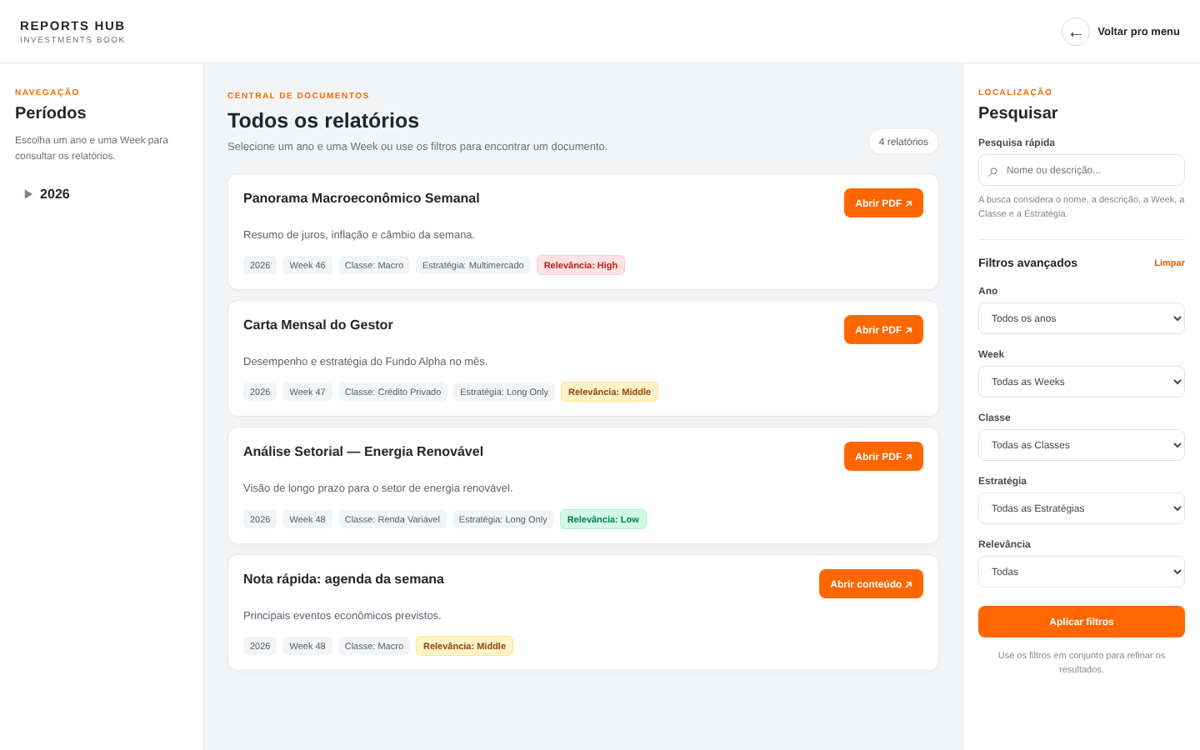
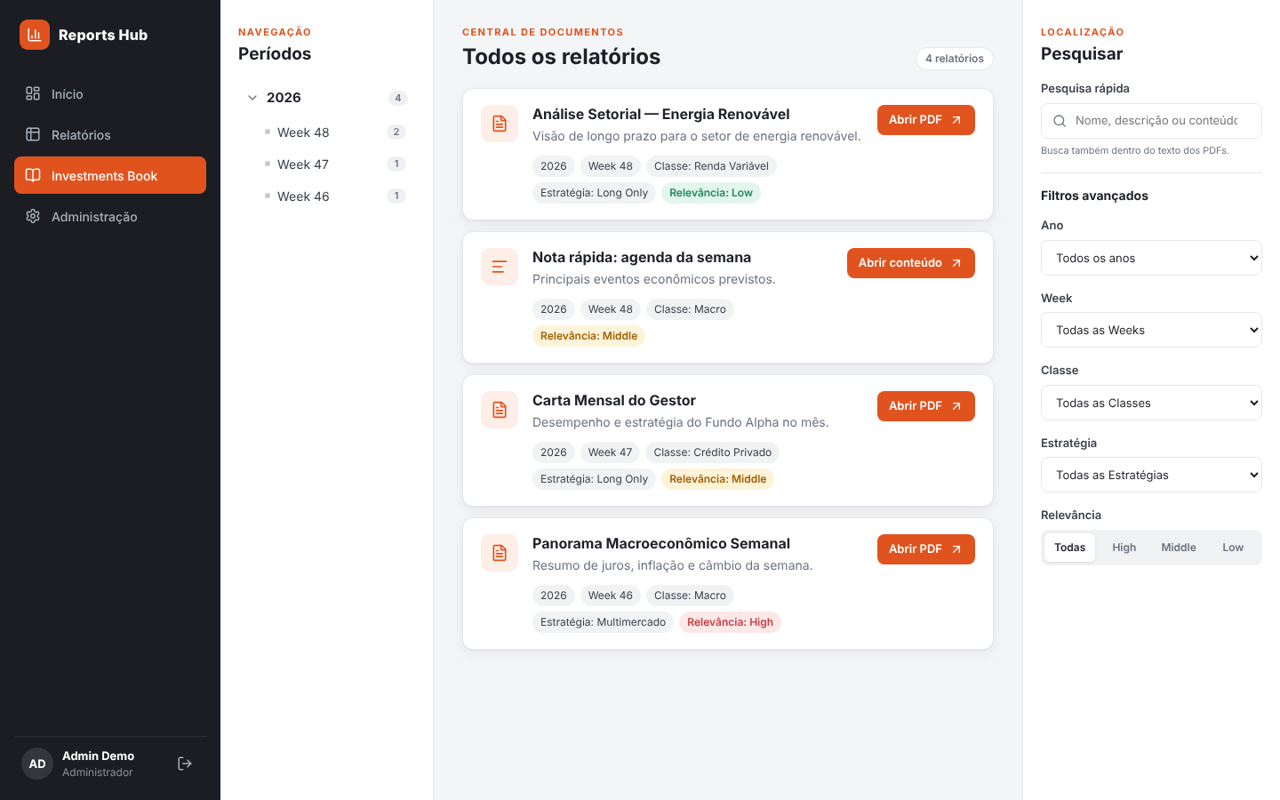
docs: README da versão React com screenshots

diff --git a/README.md b/README.md
@@ -1,10 +1,11 @@
 # Reports Hub
 
-Portal web de relatórios com **controle de acesso por usuário** e uma **biblioteca de documentos pesquisável** (Investments Book), feito em Node.js + Express e JavaScript puro no front-end.
+Portal de relatórios com **controle de acesso por usuário** e uma **biblioteca de documentos pesquisável** (Investments Book).
+SPA em **React** (Vite + React Router) com API em **Node.js / Express**.
 
-> Projeto desenvolvido originalmente para uso interno em uma empresa do mercado financeiro. Esta é uma versão pública: dados, e-mails, credenciais, links de planilhas e identidade visual foram removidos e substituídos por dados fictícios, para que qualquer pessoa consiga rodar e testar localmente.
+> Projeto desenvolvido originalmente para uso interno em uma empresa do mercado financeiro. Esta é a versão pública: dados, e-mails, credenciais, links de planilhas e identidade visual foram removidos e substituídos por dados fictícios. Assim, qualquer pessoa consegue rodar e testar localmente.
 
-![Login](docs/screenshots/login.png)
+![Início](docs/screenshots/inicio.png)
 
 ---
 
@@ -12,126 +13,135 @@ Portal web de relatórios com **controle de acesso por usuário** e uma **biblio
 
 A empresa precisava que diferentes pessoas (gestores, analistas, clientes) acessassem **planilhas atualizadas em tempo real** em um único portal, mas **cada uma só podia ver os relatórios liberados para ela**. Depois surgiu uma segunda demanda: uma central para **importar, classificar e pesquisar relatórios em PDF**, alimentada por administradores.
 
-## A solução
+## Funcionalidades
 
-### 1. Portal de relatórios com permissões
-- Login com e-mail e senha (a versão original usava SSO com Microsoft 365, veja [Login com Microsoft](#login-com-microsoft-365-opcional)).
-- Cada usuário tem uma lista de relatórios liberados. O servidor só devolve e só abre o que está nessa lista. O front-end nunca recebe nada que o usuário não pode ver.
-- Visualizador de planilha com **zoom, arrastar (pan)** e **atualização automática a cada 15 s**: altere o CSV no disco e a tela se atualiza sozinha.
-- Suporte a planilhas incorporadas (Excel Online, Google Sheets publicado etc.) via `embed`.
+**Relatórios com permissão por usuário**
+- Login com JWT. O servidor filtra a lista e bloqueia (HTTP 403) qualquer relatório fora das permissões do usuário, mesmo que a pessoa digite a URL direto.
+- Visualizador de planilha com zoom (botões ou teclas `+` `-` `0`), arrastar com o mouse e **atualização automática a cada 15 s**.
+- Suporte a planilhas incorporadas (Excel Online, Google Sheets publicado etc.).
 
-### 2. Investments Book (biblioteca de PDFs)
-- Navegação por **ano → Week**.
-- **Pesquisa rápida** que busca no nome, na descrição, nos filtros e **no texto extraído do próprio PDF**.
-- **Filtros avançados**: ano, Week, Classe, Estratégia e Relevância (High / Middle / Low).
-- Visualização do PDF direto na página.
-- **Painel administrativo** (apenas admins): upload de PDF ou conteúdo de texto + link, edição e exclusão de relatórios, e criação de filtros (Weeks, Classes, Estratégias).
+**Investments Book**
+- Navegação por ano → Week, com contagem de documentos.
+- Busca instantânea no nome, na descrição, nos filtros e **no texto extraído de dentro dos PDFs**.
+- Filtros combináveis: ano, Week, Classe, Estratégia e Relevância.
+- Visualização do PDF na própria página, com URL compartilhável (`/book?doc=ID`).
 
-| Menu principal | Relatórios de um usuário com acesso limitado |
-|---|---|
-| ![Menu](docs/screenshots/menu-principal.png) | ![Cliente](docs/screenshots/relatorios-cliente.png) |
+**Painel administrativo** (só para `admin`)
+- Upload com arrastar e soltar, validação de tipo e tamanho.
+- Tabela de gerenciamento com edição em modal e exclusão com confirmação.
+- CRUD dos filtros (Weeks, Classes, Estratégias).
 
-| Visualizador de planilha | Investments Book |
+| Planilha | Investments Book |
 |---|---|
 | ![Planilha](docs/screenshots/planilha.png) | ![Book](docs/screenshots/investments-book.png) |
 
-![Admin](docs/screenshots/admin-book.png)
+| Gerenciar relatórios | Edição |
+|---|---|
+| ![Admin](docs/screenshots/admin-relatorios.png) | ![Editar](docs/screenshots/admin-editar.png) |
+
+| Filtros | Acesso negado (usuário sem permissão) |
+|---|---|
+| ![Filtros](docs/screenshots/admin-filtros.png) | ![Negado](docs/screenshots/acesso-negado.png) |
 
 ---
 
 ## Tecnologias
 
-- **Back-end:** Node.js, Express 5, JWT (`jsonwebtoken`), `bcryptjs`, `multer` (upload), `pdfjs-dist` (extração de texto dos PDFs)
-- **Front-end:** HTML, CSS e JavaScript puro (sem framework)
-- **Persistência:** arquivos JSON (sem banco de dados, para facilitar rodar localmente)
+| Camada | Stack |
+|---|---|
+| Front-end | React 19, Vite, React Router 7, lucide-react, CSS puro com design tokens |
+| Back-end | Node.js, Express 5, JWT, bcryptjs, multer, pdfjs-dist |
+| Persistência | Arquivos JSON (sem banco, para rodar com zero configuração) |
+| Monorepo | npm workspaces + concurrently |
+
+### Decisões de arquitetura
+
+- **A autorização fica no servidor.** O front só esconde menus por conveniência. Quem decide o que cada usuário pode ver e alterar são os middlewares `requireAuth` e `requireAdmin` da API.
+- **Estado de autenticação centralizado** em um `AuthContext`, com rotas protegidas (`<ProtectedRoute adminOnly />`) e logout automático quando o token expira (evento `auth:expired` disparado pelo cliente HTTP).
+- **Feedback global** (toasts, confirmação, prompt) via `FeedbackContext` com API baseada em Promise: `await confirm({...})`. Substitui `alert`/`confirm`/`prompt` nativos.
+- **Hooks reutilizáveis**: `useBookData` (carregamento e recarga dos dados do Book) e `useZoomPan` (zoom, arrastar e atalhos do visualizador).
+- **Planilhas "em tempo real"**: o servidor lê o CSV a cada requisição e devolve a data de modificação. O cliente faz polling e só re-renderiza quando o arquivo mudou.
 
 ---
 
 ## Como rodar
 
-Pré-requisito: **Node.js 18 ou superior**.
+Pré-requisito: **Node.js 20.19+** (ou 22.12+).
 
 ```bash
 git clone https://github.com/SEU-USUARIO/reports-hub.git
 cd reports-hub
 npm install
-cp .env.example .env      # no Windows: copy .env.example .env
+cp server/.env.example server/.env      # Windows: copy server\.env.example server\.env
+```
+
+**Modo desenvolvimento** (hot reload no front e no back):
+
+```bash
+npm run dev
+```
+Abra **http://localhost:5173**. O Vite redireciona `/api` e `/auth` para a API na porta 4000.
+
+**Modo produção** (build do React servido pelo Express):
+
+```bash
 npm start
 ```
+Abra **http://localhost:4000**.
 
-Na primeira execução o servidor cria automaticamente os usuários de demonstração e o Investments Book com PDFs de exemplo.
-
-No terminal aparecem os endereços:
-
-```
-Servidor rodando em http://localhost:4000
-  Relatórios:         http://localhost:4000/
-  Investments Book:   http://localhost:4000/book/index.html
-  Painel admin Book:  http://localhost:4000/book/pages/admin.html
-```
+Na primeira execução, o servidor cria automaticamente os usuários de demonstração e o Investments Book com PDFs de exemplo.
 
 ### Usuários de demonstração
 
+Na tela de login há um atalho que preenche os dados ao clicar.
+
 | E-mail | Senha | Perfil | Relatórios liberados |
 |---|---|---|---|
-| `admin@demo.com` | `admin123` | admin | todos (`*`) + painel do Book |
+| `admin@demo.com` | `admin123` | admin | todos + painel do Book |
 | `analista@demo.com` | `analista123` | user | Fundo Alpha, Fundo Beta, Fluxo de Caixa |
 | `cliente@demo.com` | `cliente123` | user | Fundo Beta |
 | `visitante@demo.com` | `visitante123` | user | nenhum (só consulta o Book) |
 
-### Testando o Investments Book como admin
+### Roteiro de teste
 
-1. Rode `npm start` no terminal.
-2. Abra `http://localhost:4000` e entre com `admin@demo.com` / `admin123`.
-3. No menu principal aparecem os três cards. Abra em **duas abas diferentes**:
-   - **Investments Book** (`/book/index.html`): a tela de consulta.
-   - **Administração do Book** (`/book/pages/admin.html`): o painel de upload.
-4. No painel, faça upload de um PDF qualquer, escolha ano, Week e relevância, e salve.
-5. Volte à aba do Book e atualize a página: o relatório aparece na árvore de períodos e já pode ser encontrado pela pesquisa, inclusive por palavras do conteúdo do PDF.
-
-Entre com `visitante@demo.com` para ver que o card de administração some e que a API recusa qualquer alteração (HTTP 403).
+1. Entre como **admin** e abra **Investments Book** e **Administração** em duas abas.
+2. Na aba de administração, vá em *Filtros* e crie uma Week. Depois, em *Upload*, envie um PDF qualquer.
+3. Na aba do Book, atualize a página: o documento aparece na árvore de períodos e já pode ser encontrado pela busca, inclusive por palavras de dentro do PDF.
+4. Saia e entre como **cliente**: só o Fundo Beta aparece, o menu de administração some, e abrir `/relatorios/fundo-alpha` mostra "Acesso negado".
+5. Com o app aberto em um relatório, edite um CSV em `server/data/sheets/` e salve. Em até 15 s a tabela se atualiza sozinha.
 
 ---
 
-## Gerenciando usuários e permissões
+## Usuários e permissões
 
-Os usuários ficam em `data/users.json`, com as senhas guardadas como hash bcrypt. Use o script de linha de comando:
+Os usuários ficam em `server/data/users.json`, com as senhas guardadas como hash bcrypt. Gerencie pelo terminal:
 
 ```bash
-npm run user -- list                                   # lista usuários e acessos
-npm run user -- reports                                # lista os IDs de relatórios
+npm run user -- list
+npm run user -- reports                                   # IDs disponíveis
 npm run user -- add maria@empresa.com senha123 --nome "Maria" --acessos fundo-alpha,fluxo-caixa
 npm run user -- add chefe@empresa.com senha123 --nome "Chefe" --role admin --acessos "*"
-npm run user -- access maria@empresa.com fundo-beta    # troca os relatórios liberados
-npm run user -- role maria@empresa.com admin           # promove a admin
-npm run user -- password maria@empresa.com novaSenha   # troca a senha
+npm run user -- access maria@empresa.com fundo-beta
+npm run user -- role maria@empresa.com admin
+npm run user -- password maria@empresa.com novaSenha
 npm run user -- remove maria@empresa.com
 ```
 
-- `role`: `admin` (acessa o painel do Book) ou `user`.
-- `acessos`: lista de IDs de relatórios, ou `*` para todos.
+As alterações valem na hora. `npm run seed` restaura os dados de demonstração.
 
-As alterações valem na hora, sem reiniciar o servidor.
+## Adicionando planilhas
 
-Para voltar ao estado inicial (usuários e Book de demonstração): `npm run seed`.
-
----
-
-## Adicionando relatórios (planilhas)
-
-O catálogo fica em `data/reports.json`:
+Catálogo em `server/data/reports.json`:
 
 ```json
 [
   { "id": "fundo-alpha", "title": "Fundo Alpha", "tipo": "csv", "arquivo": "fundo-alpha.csv", "descricao": "Posição diária" },
-  { "id": "planilha-online", "title": "Planilha Online", "tipo": "embed", "url": "https://link-de-incorporacao-da-planilha" }
+  { "id": "planilha-online", "title": "Planilha Online", "tipo": "embed", "url": "https://link-de-incorporacao" }
 ]
 ```
 
-- **`csv`**: o arquivo fica em `data/sheets/`. O servidor lê o arquivo a cada requisição, então qualquer alteração no CSV aparece na tela em até 15 s. Aceita separador `,` ou `;`.
-- **`embed`**: qualquer URL que possa ser exibida em `iframe`, como o link de incorporação do Excel Online/OneDrive/SharePoint ou do Google Sheets ("Publicar na Web"). Era assim que a versão original exibia as planilhas em tempo real.
-
-Depois de criar o relatório, libere-o para os usuários com `npm run user -- access ...`.
+- `csv`: arquivo em `server/data/sheets/` (separador `,` ou `;`).
+- `embed`: qualquer URL exibível em `iframe`, como o link de incorporação do Excel Online/SharePoint ou do Google Sheets ("Publicar na Web"). Era assim que a versão original mostrava as planilhas da empresa.
 
 ---
 
@@ -139,27 +149,31 @@ Depois de criar o relatório, libere-o para os usuários com `npm run user -- ac
 
 ```
 reports-hub/
-├── server.js              # ponto de entrada do Express
-├── src/
-│   ├── auth.js            # login, JWT e middlewares (requireAuth / requireAdmin)
-│   ├── users.js           # leitura de usuários, senha (bcrypt) e permissões
-│   ├── reports.js         # API das planilhas (filtra pelo acesso do usuário)
-│   ├── book.js            # API do Investments Book (CRUD, upload, busca)
-│   ├── microsoft.js       # login Microsoft 365 (comentado)
-│   ├── store.js           # leitura/escrita de JSON
-│   └── paths.js
-├── scripts/
-│   ├── user.js            # CLI de usuários
-│   └── seed.js            # dados de demonstração
-├── seed/                  # usuários, Book e PDFs de exemplo
-├── data/
-│   ├── reports.json       # catálogo de relatórios
-│   └── sheets/            # planilhas CSV de exemplo
-├── uploads/               # PDFs enviados pelo painel (ignorado no git)
-└── public/                # front-end (HTML/CSS/JS)
-    ├── index.html         # login
-    ├── page/              # menu principal, lista e visualizador de relatórios
-    └── book/              # Investments Book e painel administrativo
+├── client/                         # React (Vite)
+│   └── src/
+│       ├── App.jsx                 # rotas
+│       ├── lib/
+│       │   ├── api.js              # cliente HTTP com JWT
+│       │   ├── book.js             # regras de filtro/ordenação + useBookData
+│       │   └── useZoomPan.js
+│       ├── context/                # AuthContext, FeedbackContext
+│       ├── components/             # AppLayout, ProtectedRoute, Modal, ...
+│       ├── pages/
+│       │   ├── Login, Home, Reports, ReportViewer
+│       │   ├── book/               # BookPage, PeriodTree, FilterPanel, DocumentViewer
+│       │   └── admin/              # AdminPage, UploadTab, ManageTab, FiltersTab
+│       └── styles/
+└── server/                         # API Express
+    ├── server.js
+    ├── src/
+    │   ├── auth.js                 # login, JWT, requireAuth / requireAdmin
+    │   ├── users.js                # usuários, bcrypt, permissões
+    │   ├── reports.js              # planilhas (filtradas por acesso)
+    │   ├── book.js                 # Investments Book (CRUD, upload, busca)
+    │   └── microsoft.js            # SSO Microsoft 365 (comentado)
+    ├── scripts/                    # CLI de usuários e seed
+    ├── seed/                       # dados e PDFs de demonstração
+    └── data/                       # catálogo e planilhas CSV
 ```
 
 ## API
@@ -167,33 +181,31 @@ reports-hub/
 | Método | Rota | Acesso | Descrição |
 |---|---|---|---|
 | POST | `/auth/login` | público | `{ email, senha }` → `{ token, user }` |
-| GET | `/auth/user` | logado | dados e permissões do usuário |
+| GET | `/auth/user` | logado | usuário e permissões |
 | GET | `/api/reports` | logado | relatórios liberados para o usuário |
 | GET | `/api/reports/:id` | com acesso | dados da planilha ou URL de embed |
-| GET | `/api/book/reports` | logado | todos os relatórios do Book |
-| GET | `/api/book/search` | logado | busca com `nome`, `ano`, `weekId`, `classeId`, `estrategiaId`, `relevancia` |
+| GET | `/api/book/reports` | logado | relatórios do Book |
+| GET | `/api/book/search` | logado | busca por `nome`, `ano`, `weekId`, `classeId`, `estrategiaId`, `relevancia` |
 | POST | `/api/book/upload` | admin | cadastro (multipart, campo `pdf`) |
 | PUT / DELETE | `/api/book/reports/:id` | admin | edição / exclusão |
-| GET / POST / PUT / DELETE | `/api/book/weeks`, `/classes`, `/strategies` | leitura: logado · escrita: admin | filtros |
-
-O token JWT vai no header `Authorization: Bearer <token>`.
+| GET · POST · PUT · DELETE | `/api/book/weeks` · `/classes` · `/strategies` | leitura: logado · escrita: admin | filtros |
 
 ---
 
 ## Login com Microsoft 365 (opcional)
 
-Na versão original, o login era feito via **SSO com Microsoft Entra ID (Azure AD)**: o usuário entrava com a conta corporativa e o e-mail retornado pela Microsoft era cruzado com a lista de permissões. O código continua no projeto, comentado, em `src/microsoft.js`. Para reativar:
+A versão original usava **SSO com Microsoft Entra ID (Azure AD)**: o usuário entrava com a conta corporativa, e o e-mail retornado era cruzado com a lista de permissões. O código continua no projeto, comentado. Para reativar:
 
-1. Registre um app no [portal do Azure](https://portal.azure.com) (Microsoft Entra ID → Registros de aplicativo) com o redirect `http://localhost:4000/auth/microsoft/callback`.
-2. Preencha `CLIENT_ID`, `CLIENT_SECRET`, `TENANT_ID` e `REDIRECT_URI` no `.env`.
-3. `npm install passport passport-microsoft express-session`
-4. Descomente o conteúdo de `src/microsoft.js`, as duas linhas de `setupMicrosoftLogin` em `server.js` e o botão "Entrar com Microsoft" em `public/index.html` e `public/js/login.js`.
+1. Registre um app no portal do Azure (Microsoft Entra ID → Registros de aplicativo) com redirect `http://localhost:4000/auth/microsoft/callback`.
+2. Preencha `CLIENT_ID`, `CLIENT_SECRET`, `TENANT_ID` e `REDIRECT_URI` em `server/.env`.
+3. `npm install passport passport-microsoft express-session -w server`
+4. Descomente `server/src/microsoft.js`, as linhas de `setupMicrosoftLogin` em `server/server.js` e o botão "Entrar com Microsoft" em `client/src/pages/Login.jsx`.
 
-Os usuários continuam sendo cadastrados em `data/users.json` (a senha não é usada nesse caso). Assim, só entra quem tiver o e-mail na lista.
+O callback devolve o token para `/login?token=...`, e o front já trata esse caso.
 
 ---
 
 ## Observações
 
-- As senhas de demonstração estão no README de propósito, para facilitar o teste. Em produção, defina um `JWT_SECRET` forte no `.env` e crie usuários próprios.
+- As senhas de demonstração aparecem no README e na tela de login de propósito. Em produção, defina um `JWT_SECRET` forte e crie usuários próprios.
 - Todos os dados (fundos, valores, PDFs) são fictícios.
